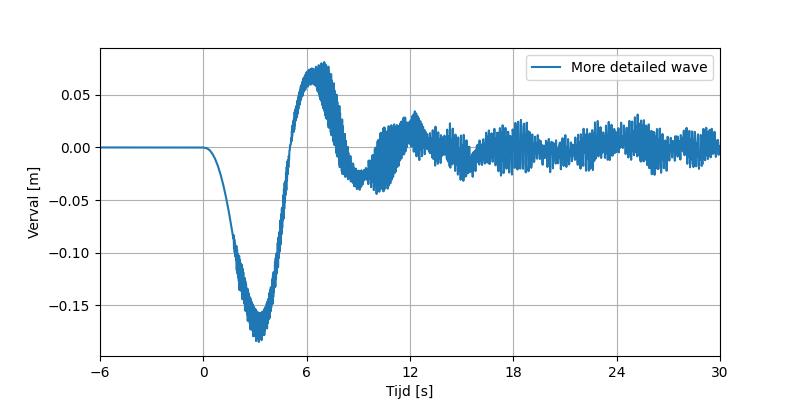
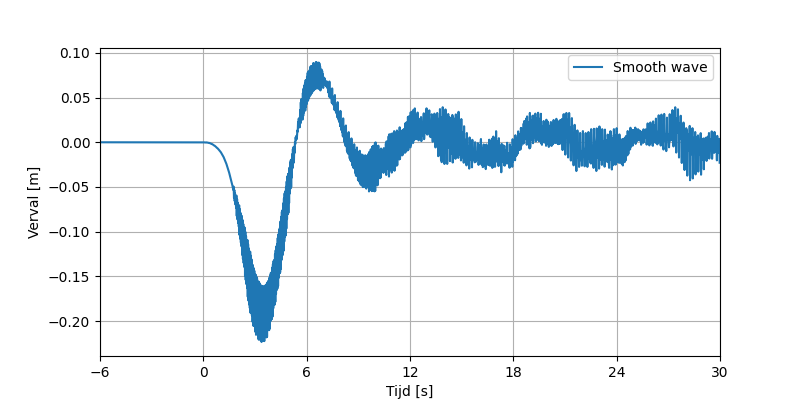
Sensitivity-analysis-all-tests

diff --git a/docs/source/sensitivity-analysis.rst b/docs/source/sensitivity-analysis.rst
@@ -3,13 +3,46 @@ Sensitivity Analysis
 
 The use of sailing velocity (M0=1)
 --------------------------------
-As mentioned in `getting started <https://lockgate5-branch2.readthedocs.io/en/latest/theory.html>`_, the user can choose to define the wave propagation velocity in the lock chamber through the sailing velocity of a ship. Note that this needs to have a higher value than is calculated by linear wave theory, otherwise the code will raise an error. As a result, the wave in the lock chamber propagates with an equal or higher velocity than the translatory wave in the gate recess. In the example below a sailing velocity of 10.0 m/s is used (translatory wave propagation velocity = +/- 6.27 [m/s] )
+As mentioned in `getting started <https://lockgate5-branch2.readthedocs.io/en/latest/theory.html>`_, the user can choose to define the wave propagation velocity in the lock chamber through the sailing velocity of a ship. Note that this needs to have a higher value than is calculated by linear wave theory, otherwise the code will raise an error. As a result, the wave in the lock chamber propagates with an equal or higher velocity than the translatory wave in the gate recess. In the example below a sailing velocity of 10.0 m/s is used (translatory wave propagation velocity = +/- 6.27 [m/s]).
 
 .. image:: ../images/Test_1.png
 
-2. Breder of smaller deur-deurkas kanaal
-    Breder zorgt voor demping en smaller is voor 
-3. Spleet 1 breder dan spleet 2
-    Interessant nog niet geprobeerd
-4. AO =! 0.0 m2
-5. Andere golf --> Meer realistische vorm of ook de golf trench ipv alleen de crest
+As can be seen in the figure, higher propagation velocity in the lock chamber causes larger head difference that occurs earlier than if this equals the propagation velocity in the gate recess (translatory wave). The numerical instability occurs at roughly the same time step.
+
+Spacing between gate and gate recess wall
+--------------------------------
+
+A space is present between the gate and gate recess wall, refered to as 'channel'. The width of this channel is varied and the result is shown in the figure below.
+
+.. image:: ../images/Test_2.png
+
+As the figure shows, reducing the width of the channel also reduces the peak in head difference of the gate. Namely, a smaller channel results in a larger waveheight of the translatory wave. At the same time it can be seen that the influence of numerical instability increases. This reduces for a wider channel, because the waveheight of the translatory wave is less sensitive.
+
+Width of the vertical opening 
+--------------------------------
+
+Two vertical openings are present on the sides of the gate which can differ in spacing. In the figure below, the spacing of the vertical opening at location A (BA, first that is reached by the incoming wave) is altered.
+
+.. image:: ../images/Test_3.png
+
+From the figure it can be seen that the head difference is highly sensitive to the width of the opening at A (BA). A wider channel results in faster response of the waterlevel in the channel, reducing the head difference. For the simulation in which BA exceeds the width of the opening at B (BB=0.50 [m], green line), the maximum positive head difference is larger than for the simulation where BA=0.30 [m] (orange line). However, for a very small spacing at opening 1 (BA), the positive and negative head difference are largerst. Numerical instability seems to occur later in the simulation when increasing BA.
+
+Horizontal opening underneath the gate
+--------------------------------
+
+Next to vertical openings on the sides of the gate, also a horizontal opening can be present underneath the gate. This variable is given as the area of this opening in [m] (AO). In previous runs, no horizontal opening was present. In the figure below this opening is implement with varying area.
+
+.. image:: ../images/Test_4.png
+
+As can be seen in the figure, response in head difference is somewhat different when a horizontal gap is present. This is related to the 
+
+Different wave shape
+--------------------------------
+
+In previous examples, a wave is used that is described as an instant change in waterlevel (within 1 timestep). In reality the wave has a smoother profile. The figure below shows the change in shape of the wave. The second figure shows the head difference as calculated with this smoother wave (for result of the steep wave, see the blue line in the first figure).
+
+.. image:: ../images/Test_6_golf.png
+
+.. image:: ../images/Test_6.png
+
+As can be seen in the second figure above, the head difference output graph shows a smoother response. Also the extremes are lowered. Instability seems to occur earlier in the simulation.

diff --git a/docs/source/index.rst b/docs/source/index.rst
@@ -13,7 +13,7 @@ LOCKGATE2 contains the codes KASGOLF and WINDGOLF. On this page information abou
 ##################
 
 KASGOLF
-===========
+==========
 
 This is the documentation for **KASGOLF**, a 1D `Deltares <https://www.deltares.nl/>`_ tool for calculating the effect of a wave originating from a ship sailing by on an opened lock gate (when the gate is located in the gate recess (in dutch this word is 'deurkas')).  KASGOLF is able to calculate the head difference over time for a gate with vertical openings at the sides as well as for a horizontal opening underneath the door. KASGOLF was originally developed by Delft Hydraulics in 1994 as part of LOCKGATE 2 [1]. The code was converted from the original Fortran code to the currently available Python code in 2024 and contains the same functionality as version KASGOLF 1994. 
 
@@ -34,7 +34,7 @@ The KASGOLF documentation covers the following topics:
 5. An overview of the Python code and the functionality of each subroutine.
 
 Literature
------------
+----------
 [1] WL | Delft Hydraulics (1994). ‘Krachten op puntdeuren en enkele draaideuren’ Report Q1442.
 [2] WL | Delft Hydraulics (1997). ‘Sluisprogrammatuur REN’ Report Q2317.
 [3] Ministerie van Verkeer en Waterstaat, Rijkswaterstaat, Bouwdienst (RWS, BD) (2000). ‘Handboek voor het ontwerpen van schutsluizen’.
@@ -52,5 +52,5 @@ Literature
    support
 
 WINDGOLF
-===========
+==========
 Text Ashraf....
